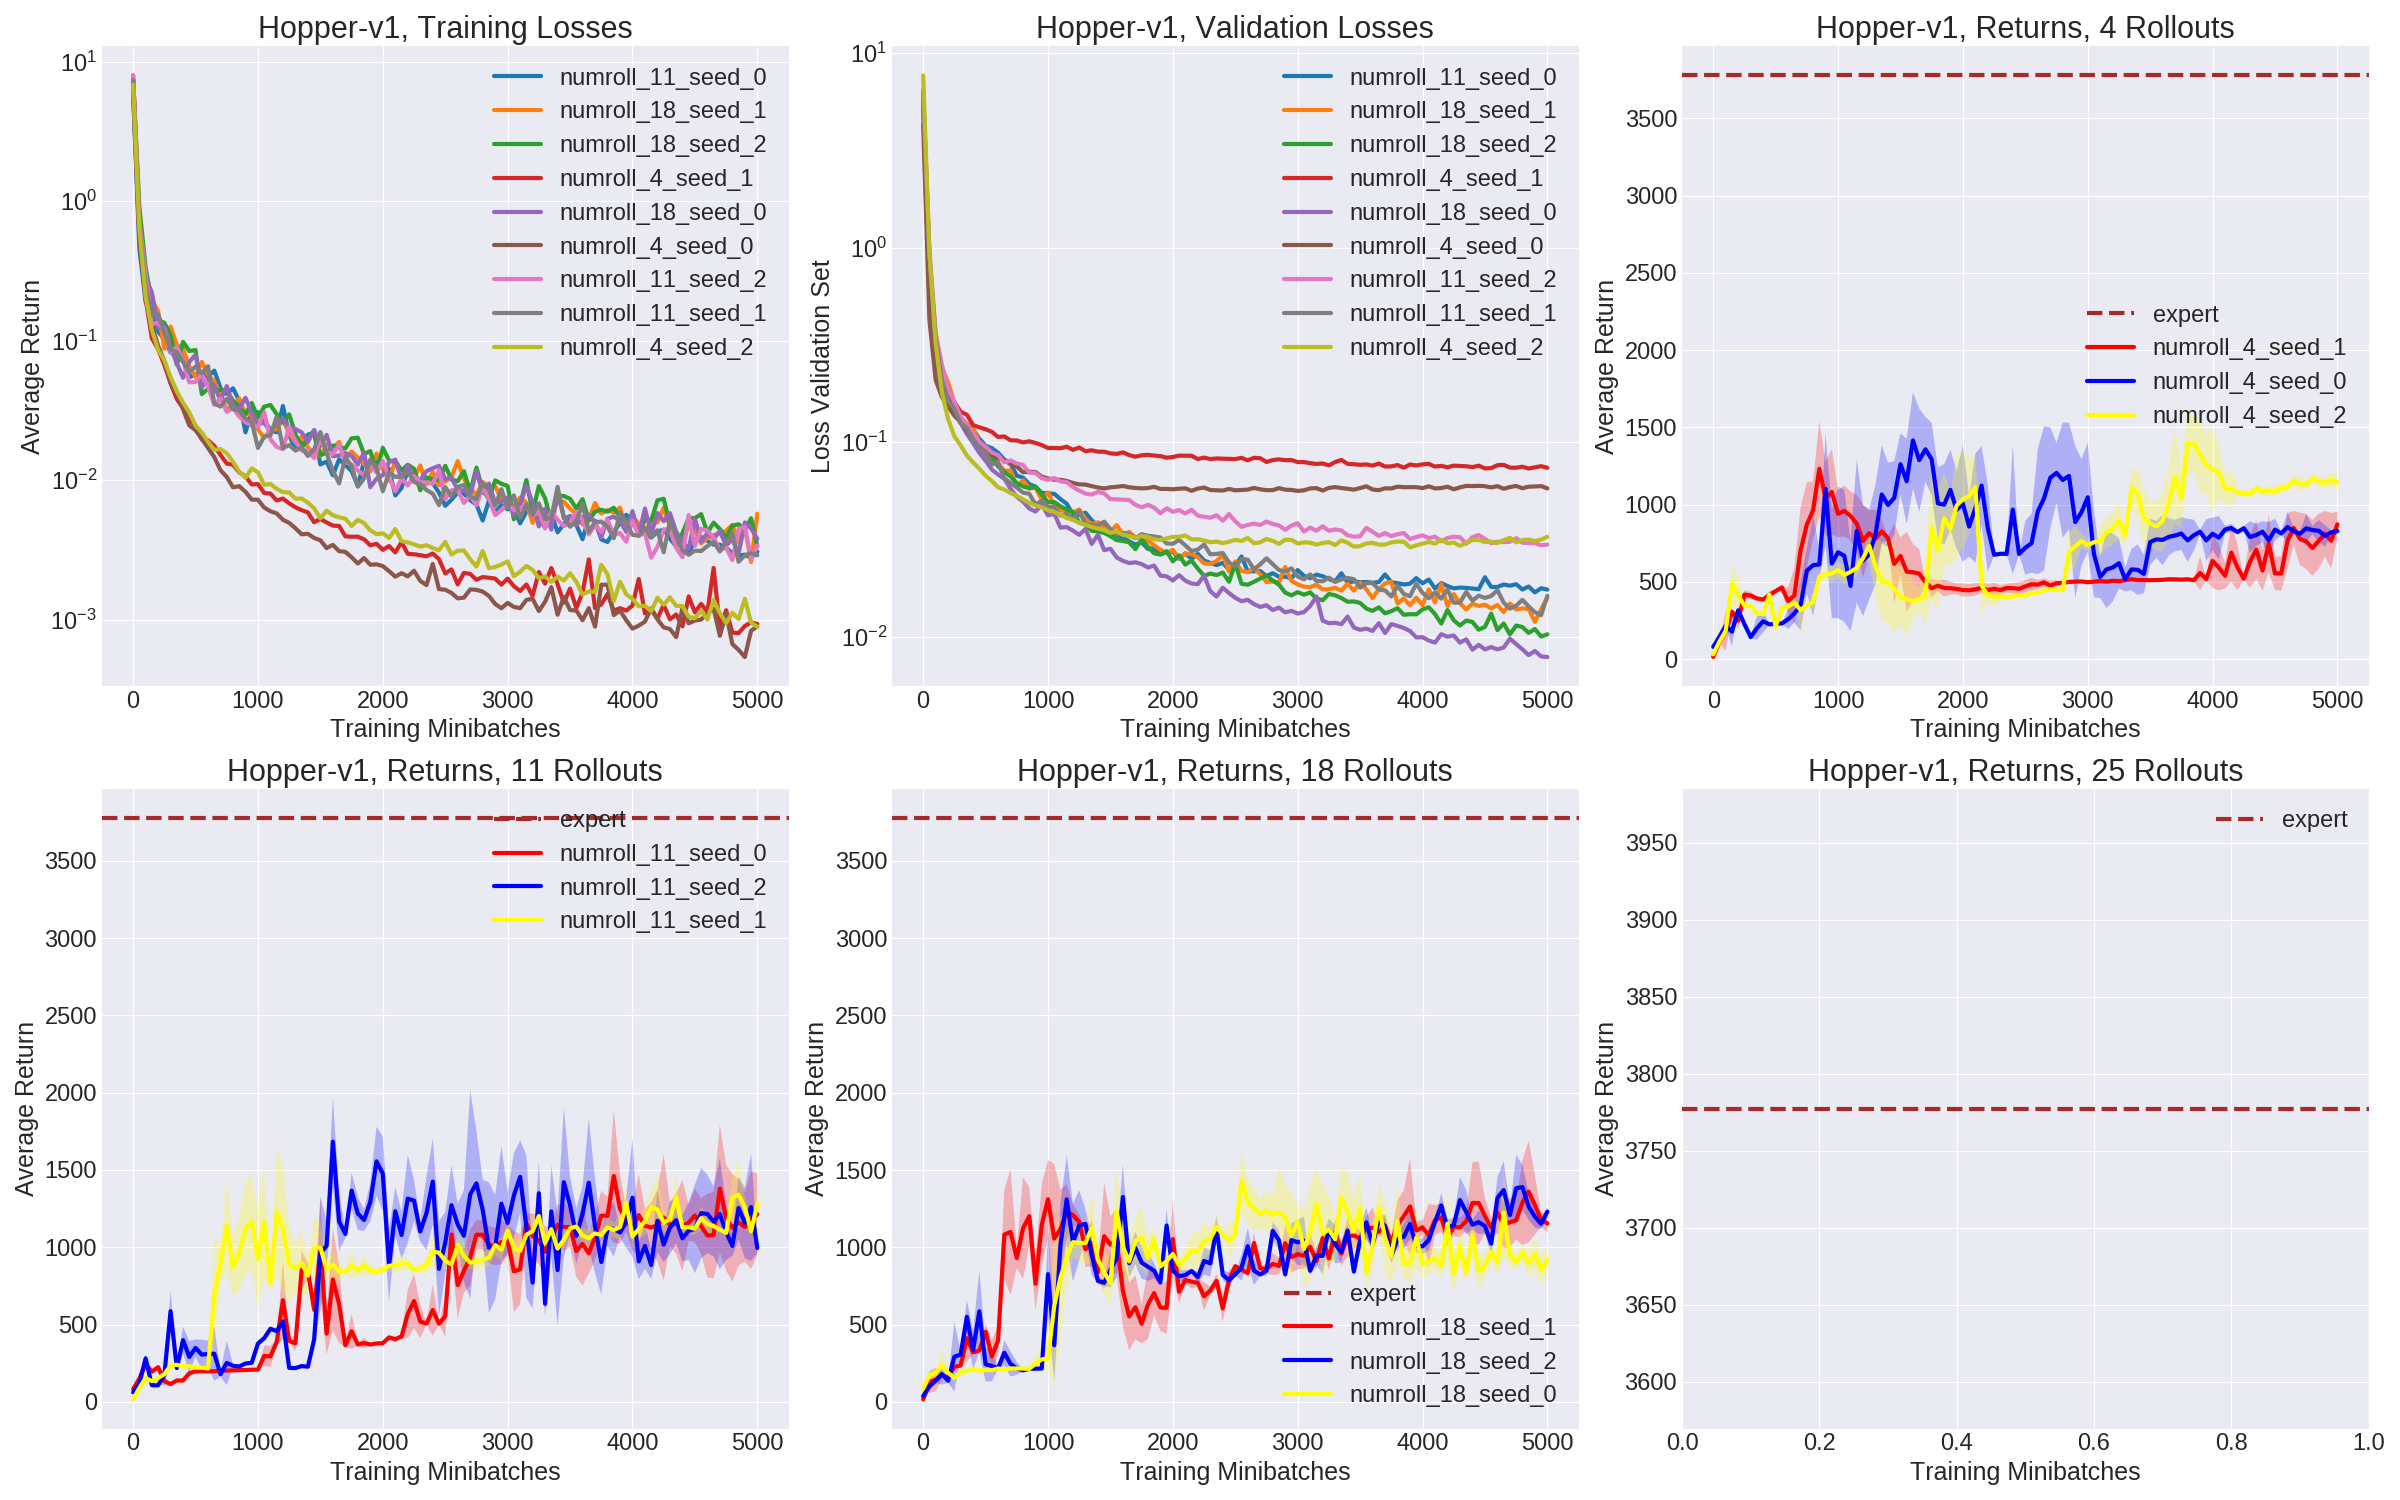
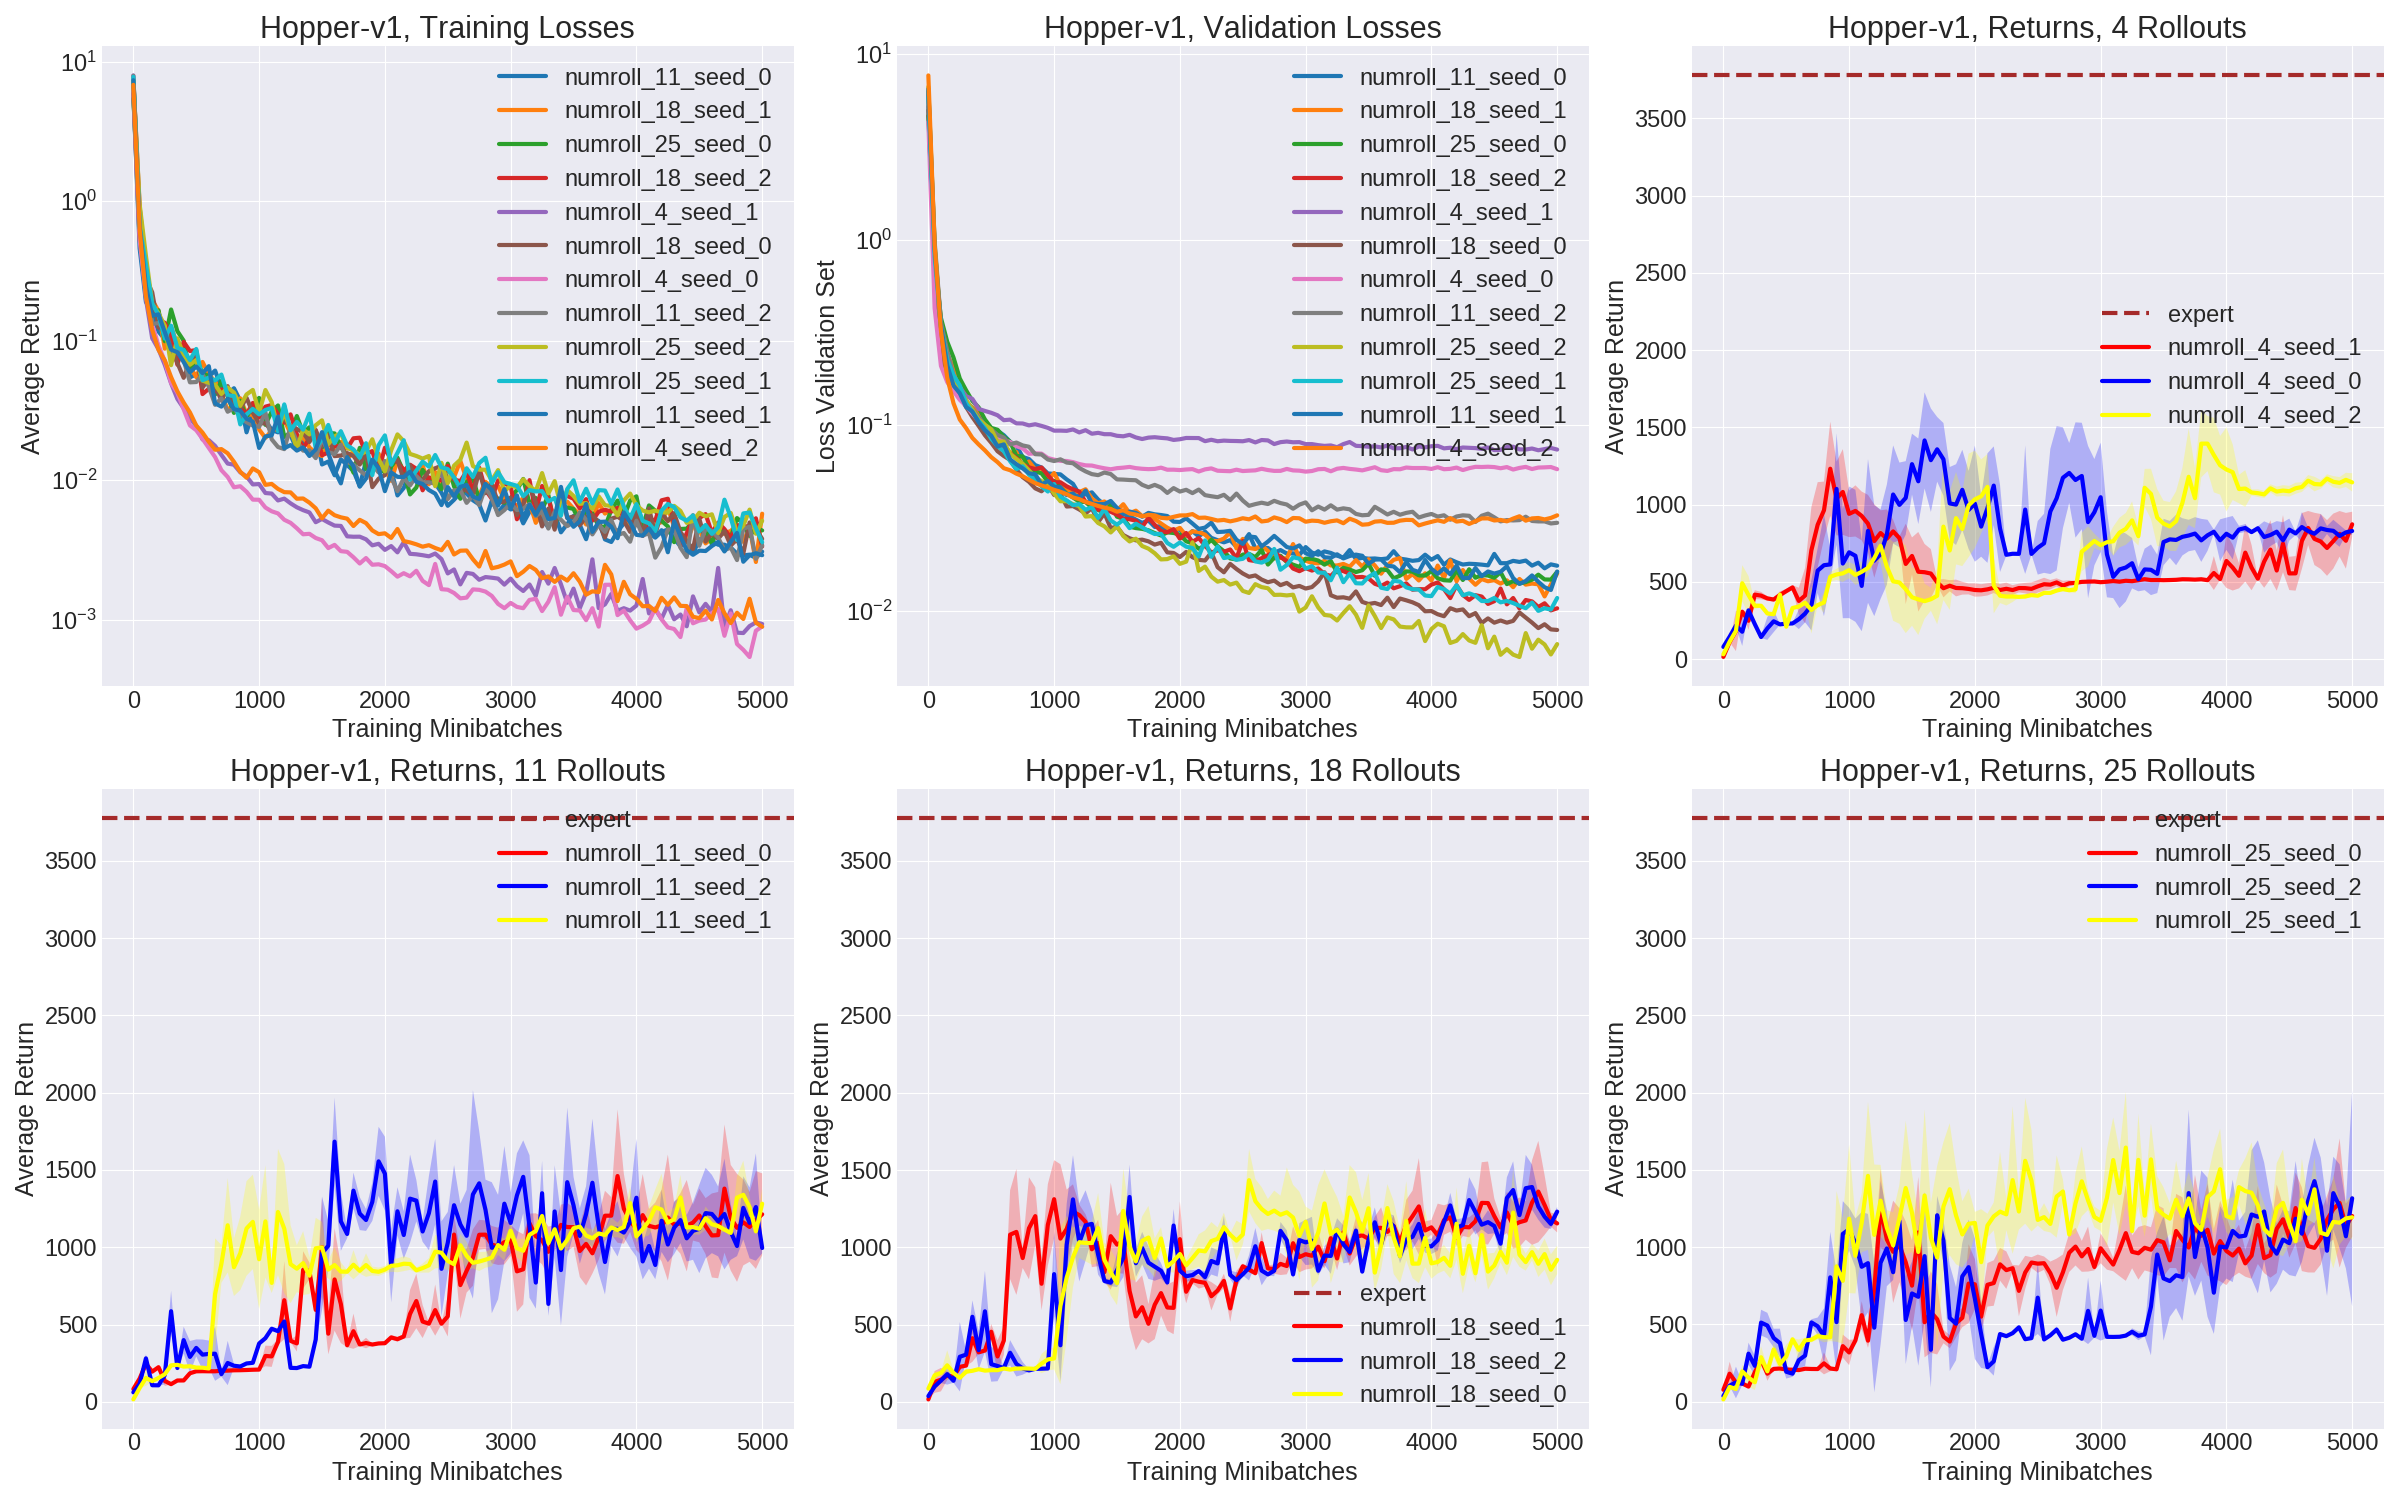
Updated figures with four mujoco environments for BC
this time with 25 rollouts included. yay.

diff --git a/bc/README.md b/bc/README.md
@@ -5,14 +5,24 @@
 This runs Behavioral Cloning (BC) on MuJoCo environments. Specifically:
 
 - The expert is TRPO and provided from Jonathan Ho (see below).
+
 - Dataset consists of inputs (states=s) to labels (actions=a). They're
-  continuous, so minimize L2 loss.
-- Batch size of 128 state/action pairs each iteration.
-- Trained with Adam, with a step size of 1e-3.
-- Data is split into 70% training, 30% validation.
-- The BC network we use is the one which performed best on the validation set.
+  continuous, so minimize mean L2 loss across minibatches. It is split into 70%
+  training, 30% validation.
+
+- Expert data size is measured in terms of the number of expert rollouts we
+  collected. Note that, like the GAIL paper, I *subsample*, so the actual amount
+  of (s,a) pairs available for BC is much smaller.
+
 - The neural network (from TensorFlow) is fully connected and has two hidden
-  layers of 100 units each with hyperbolic tangent non-linearities.
+  layers of 100 units each with hyperbolic tangent non-linearities. It's trained
+  with Adam, with a step size of 1e-3, and has a batch size of 128.
+
+- For now, I plot validation set performance (i.e. loss) without really using
+  it. If I needed to be formal and had to pick a given iteration for which to
+  choose my BC expert (because different iterations mean different weights) I'd
+  choose the one with best validation set performance. I also plot training set
+  performance just for kicks.
 
 
 ## Running the Code
@@ -30,7 +40,9 @@ To run BC, there are several steps:
   trajectories is saved into the file name by default and matches the values in
   [Generative Adversarial Imitation Learning paper][1] (see Table 1). 
   
-- **TODO running the code TODO**
+- See the bash scripts for examples of running BC, such as
+  `runbc_modern_stochastic.sh` which runs four MuJoCo environments for different
+  expert dataset sizes random seeds.
 
 - To plot the code, it's simple: `python plot_bc.py`. No command line arguments!
 
@@ -38,9 +50,9 @@ To run BC, there are several steps:
 Other stuff if you're interested:
 
 - The expert performance that I'm seeing is roughly similar to what's reported
-  in the paper, with the exception of the Walker environment, but I may be
-  running a different version of it. See the output in `logs/gen_exp_data.text`
-  for details.
+  in the GAIL paper, with the exception of the Walker environment, but I may be
+  running a newer version from Jonathan Ho. See the output in
+  `logs/gen_exp_data.text` for details.
 
 - The `bash_scripts` directory also contains a file called `demo.bash`, which
   you can use to visualize expert trajectories, just for fun.
